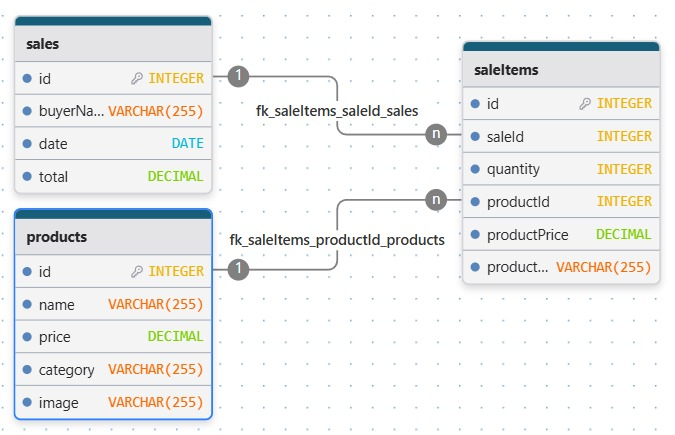
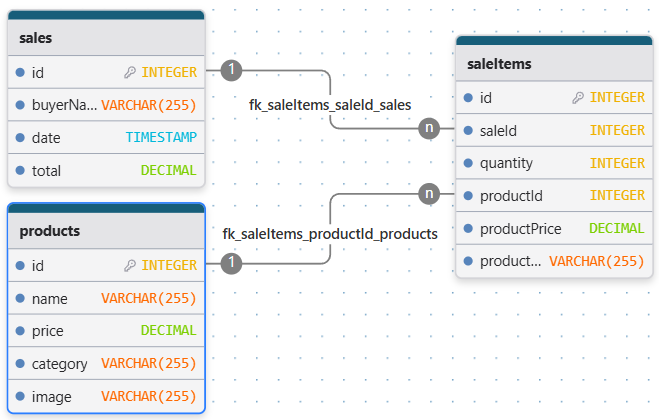
feat: add project structure documentation and database schema image

Changed region(s): [[0.0, 0.0, 1.0, 1.0]]

diff --git a/README.md b/README.md
@@ -1,0 +1,209 @@
+# 📌 Estructura y Arquitectura del Proyecto
+
+Este documento describe la estructura del proyecto y las tecnologías utilizadas.
+
+## 🛠 Tecnologías Utilizadas
+- **Backend:** Node.js con Express
+- **Base de Datos:** MySQL
+---
+
+## 📁 Estructura de Carpetas
+
+### 🏗 Backend (Node.js + Express)
+
+```
+/backend
+│── /src
+│   │── /api              
+│   │   │── /config       # Configuración global del servidor
+│   │   │── /controllers  # Controladores que manejan la lógica de cada endpoint
+│   │   │── /database     # Configuracion de la conexion a la BD
+│   │   │── /middlewares  # Middlewares como validaciones y logs
+│   │   │── /models       # Modelos de la BD
+│   │   │── /routes       # Definición de rutas (API endpoints)
+│   │   │── /utils        # Configuracion de rutas para EJS
+│   │── /public           # Archivos de estilo y recursos visuales
+│   │── /views            # Plantillas EJS para servir pantallas
+│── index.js              # Archivo principal que arranca el servidor (Entrypoint)
+│── .env                  # Variables de entorno
+│── package.json          # Dependencias y scripts del proyecto
+│── README.md             # Documentación
+```
+
+
+## 📤DB Schema
+![Image](/src/api/database/db.png)
+
+## 🔍Endpoints
+
+#### ➕ Obtener todos los productos
+
+```http
+  GET /api/products
+```
+
+Respuesta
+```json
+  [
+    {
+      "id": number,
+      "name": string,
+      "price": decimal,
+      "category": string,
+      "image": string
+    }    
+  ]
+```
+#### ➕ Obtener producto por Id
+
+```http
+  GET /api/products/${id}
+```
+
+| Parameter | Type     | Description                       |
+| :-------- | :------- | :-------------------------------- |
+| `id`      | `integer` | **Requerido**. Id del producto   |
+
+Respuesta
+```json
+  {
+    "id": number,
+    "name": string,
+    "price": decimal,
+    "category": string,
+    "image": string
+  }  
+```
+#### ➕ Crear nuevo producto
+
+```http
+  POST /api/products/
+```
+| Body | Type     | Description                       |
+| :-------- | :------- | :-------------------------------- |
+| `name`      | `string` | **Requerido**. Nombre del producto   |
+| `category`      | `string` | **Requerido**. Categoria del producto   |
+| `price`      | `decimal` | **Requerido**. Precio del producto  |
+| `image`      | `string` | **Requerido**. Imagen del producto   |
+
+Respuesta
+```json
+  {
+    "message": string,
+  }
+```
+#### ➕ Actualizar producto
+
+```http
+  PUT /api/products/${id}
+```
+| Parameter | Type     | Description                       |
+| :-------- | :------- | :-------------------------------- |
+| `id`      | `integer` | **Requerido**. Id del producto   |
+
+| Body | Type     | Description                       |
+| :-------- | :------- | :-------------------------------- |
+| `name`      | `string` | Nuevo nombre del producto   |
+| `category`      | `string` | Nueva categoria del producto   |
+| `price`      | `decimal` | Nuevo precio del producto  |
+| `image`      | `string` | Nueva imagen del producto   |
+
+Respuesta
+```json
+  {
+    "message": string
+  }
+```
+#### ➕ Eliminar producto
+
+```http
+  DELETE /api/products/${id}
+```
+
+| Parameter | Type     | Description                       |
+| :-------- | :------- | :-------------------------------- |
+| `id`      | `integer` | **Requerido**. Id del producto   |
+
+
+Respuesta
+```json
+  {
+    "message": string
+  }
+```
+#### ➕ Crear una venta
+
+```http
+  POST /api/sales
+```
+
+| Body | Type     | Description                       |
+| :-------- | :------- | :-------------------------------- |
+| `date`      | `timestamp` | Fecha y hora de la creacion   |
+| `total`      | `decimal` | Monto total de la venta  |
+| `buyerName`      | `string` | Nombre del comprador |
+| `items`      | `Array<Item>` | Items de la venta  |
+
+#### Item
+```json
+  {
+    "productId": number,
+    "productName": string,
+    "quantity": number,
+    "productPrice": decimal
+  }
+```
+
+Respuesta
+```json
+{
+  "message": string
+}
+```
+
+#### ➕ Obtener ventas
+
+```http
+  GET /api/sales/
+```
+
+Respuesta
+```json
+  [
+    {
+      "id": number,
+      "date": timestamp,
+      "total": decimal,
+      "buyerName": string,
+    }
+  ]
+```
+
+#### ➕ Obtener venta por Id
+
+```http
+  GET /api/sales/${id}
+```
+
+| Parameter | Type     | Description                       |
+| :-------- | :------- | :-------------------------------- |
+| `id`      | `integer` | **Requerido**. Id de la venta   |
+
+Respuesta
+```json
+  {
+    "id": number,
+    "date": timestamp,
+    "total": decimal,
+    "buyerName": string,
+    "items": [
+      {
+        "quantity": number,
+        "productId": number,
+        "productName": string,
+        "productPrice": decimal
+      }
+    ]
+  }
+```
+
